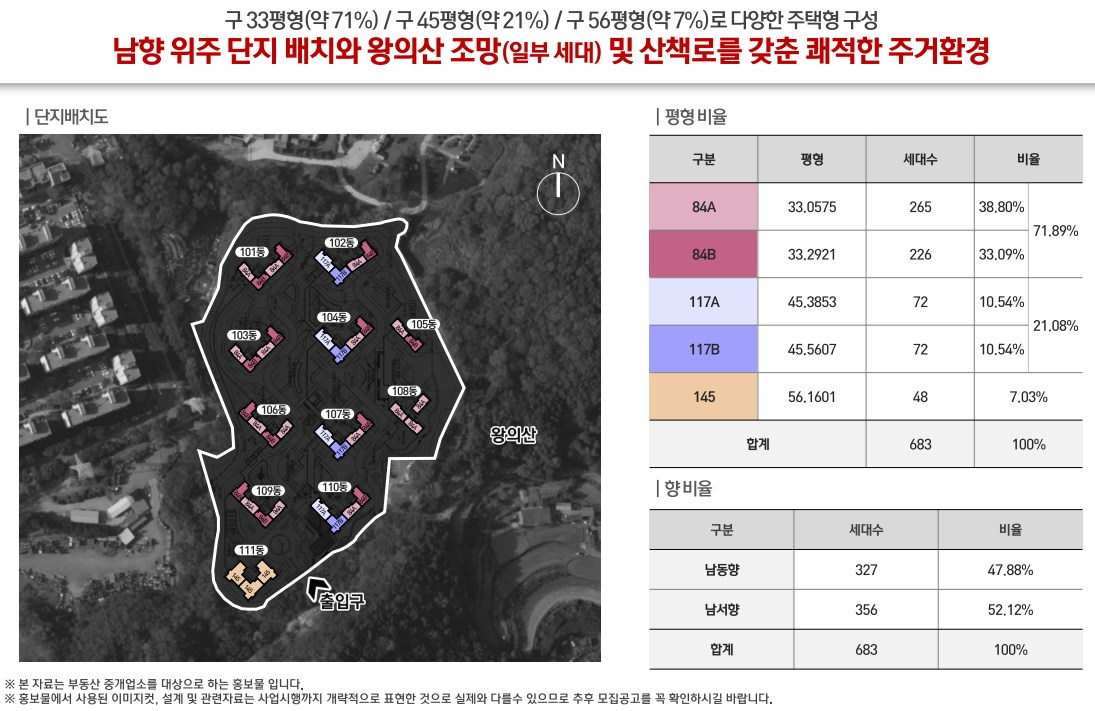
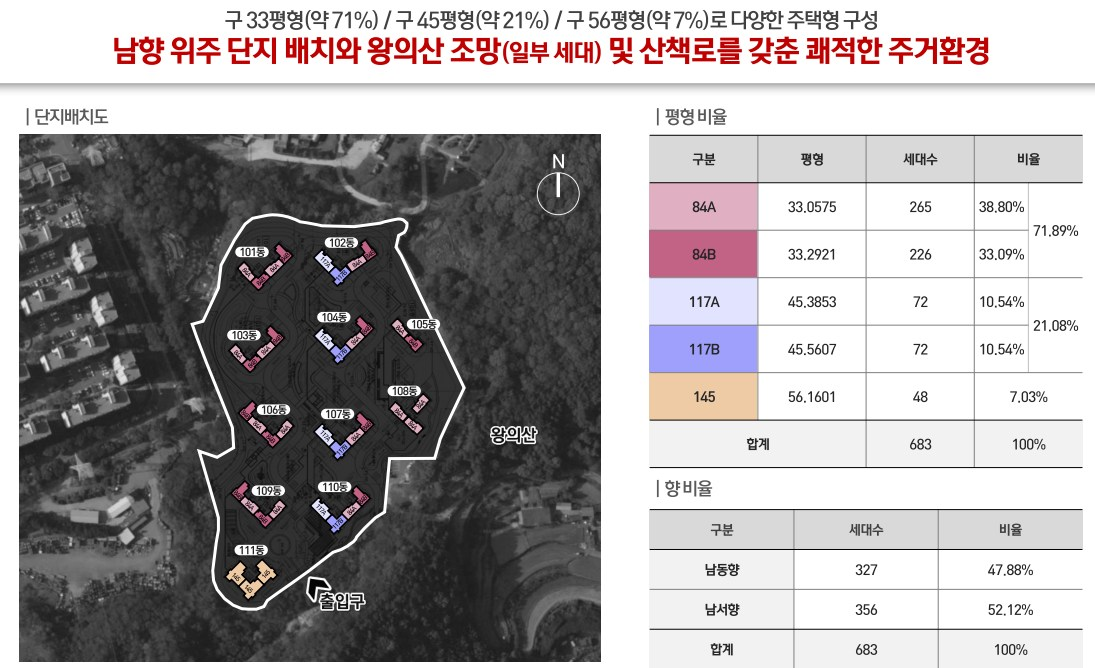
배치도 이미지 하단 중개업소 안내 문구 제거, 변경 가능 안내로 정리

diff --git a/index.html b/index.html
@@ -164,8 +164,8 @@
     <figure class="siteplan-full reveal">
       <img src="assets/site-plan-full.jpg" alt="아이파크 순천 센트럴 단지배치도와 평형비율(84A 265·84B 226·117A 72·117B 72·145 48세대), 향비율(남동향 327·남서향 356세대)" loading="lazy">
     </figure>
-    <p class="plan-note reveal">※ 단지배치도·평형 및 향 비율은 사업 진행 과정에서 변경될 수 있으며, 실제와 다를 수 있습니다. 최종 내용은 입주자모집공고를 반드시 확인하시기 바랍니다.</p>
-    <p style="text-align:center;color:var(--ink-soft);font-size:13.5px;margin-top:28px;">* 부동산 배포자료(2026.11.04) 기준이며, 평면도·분양가는 추후 공개됩니다. 최종 내용은 입주자모집공고를 확인하시기 바랍니다.</p>
+    <p class="plan-note reveal">※ 단지배치도·평형 및 향 비율은 추후 변경될 수 있습니다.</p>
+    <p style="text-align:center;color:var(--ink-soft);font-size:13.5px;margin-top:28px;">* 평면도·분양가는 추후 공개되며, 내용은 변경될 수 있습니다.</p>
   </div>
 </section>
 
